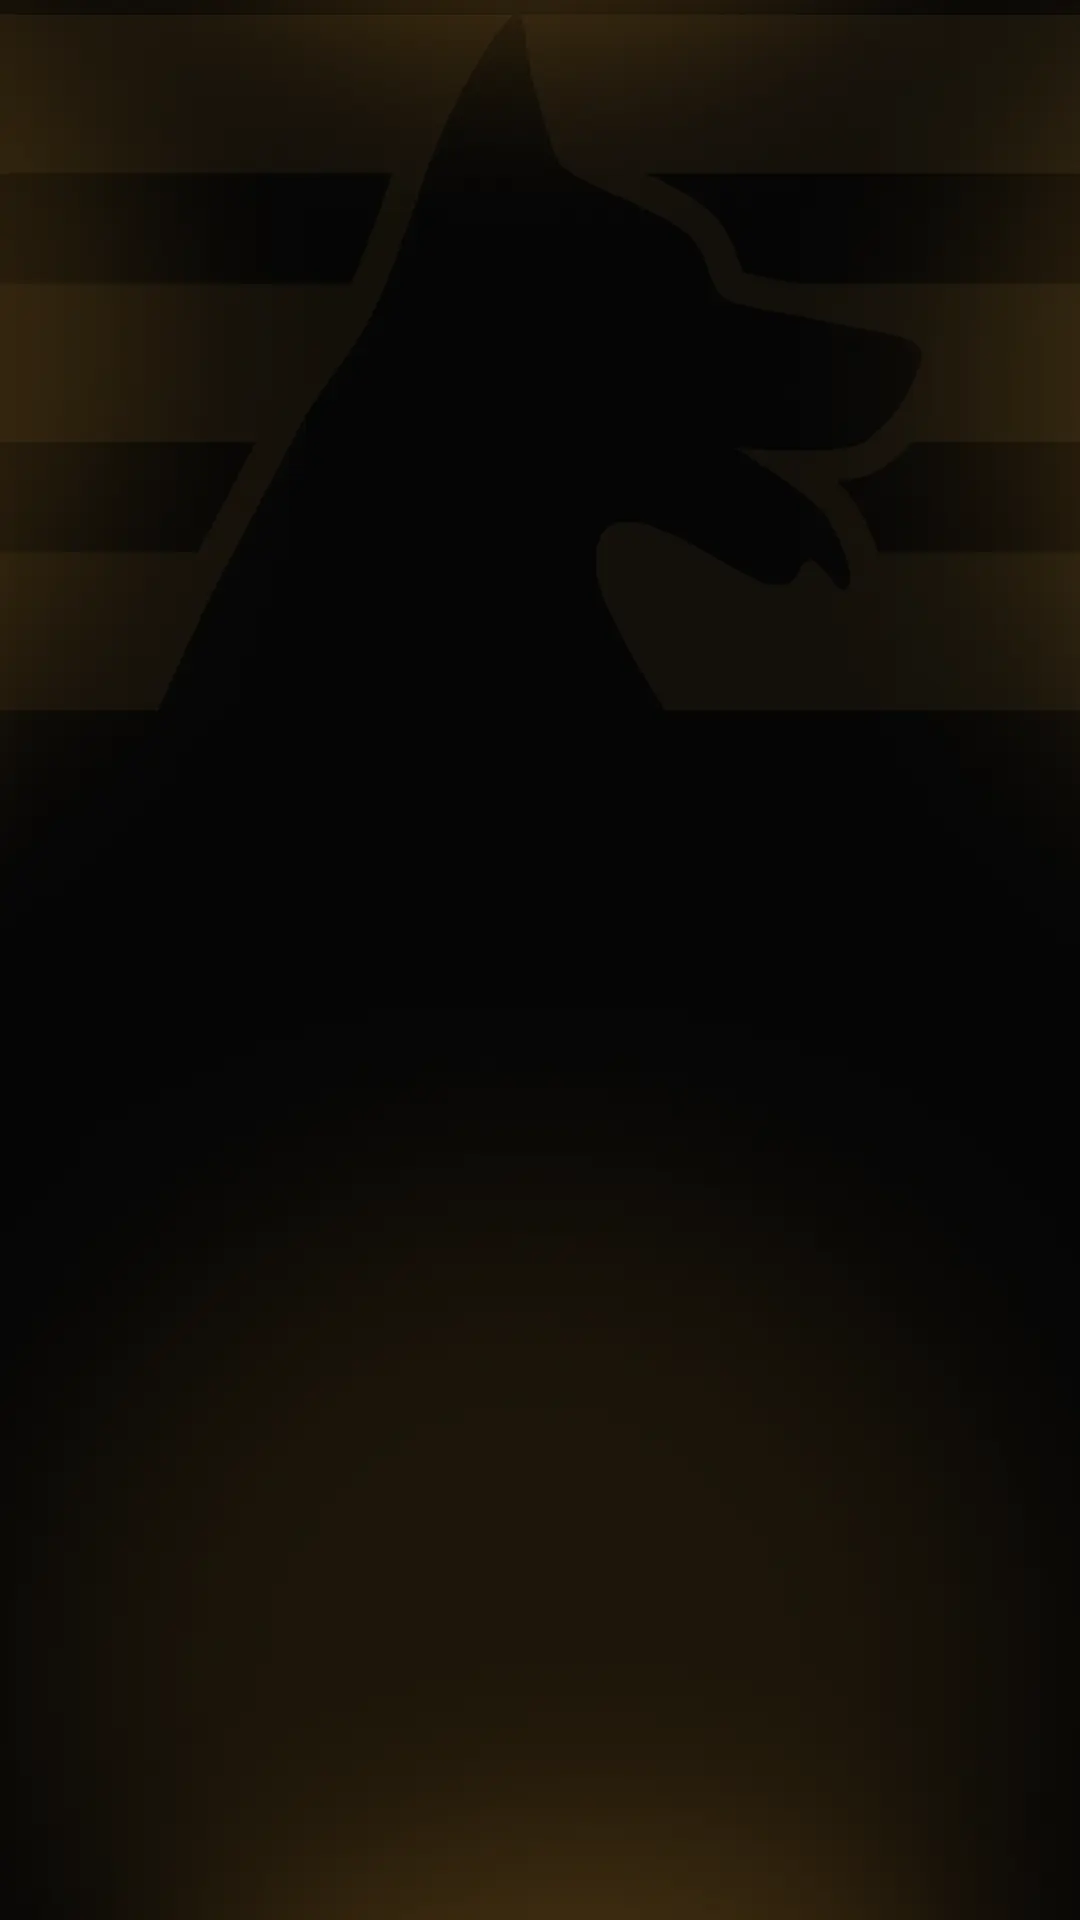
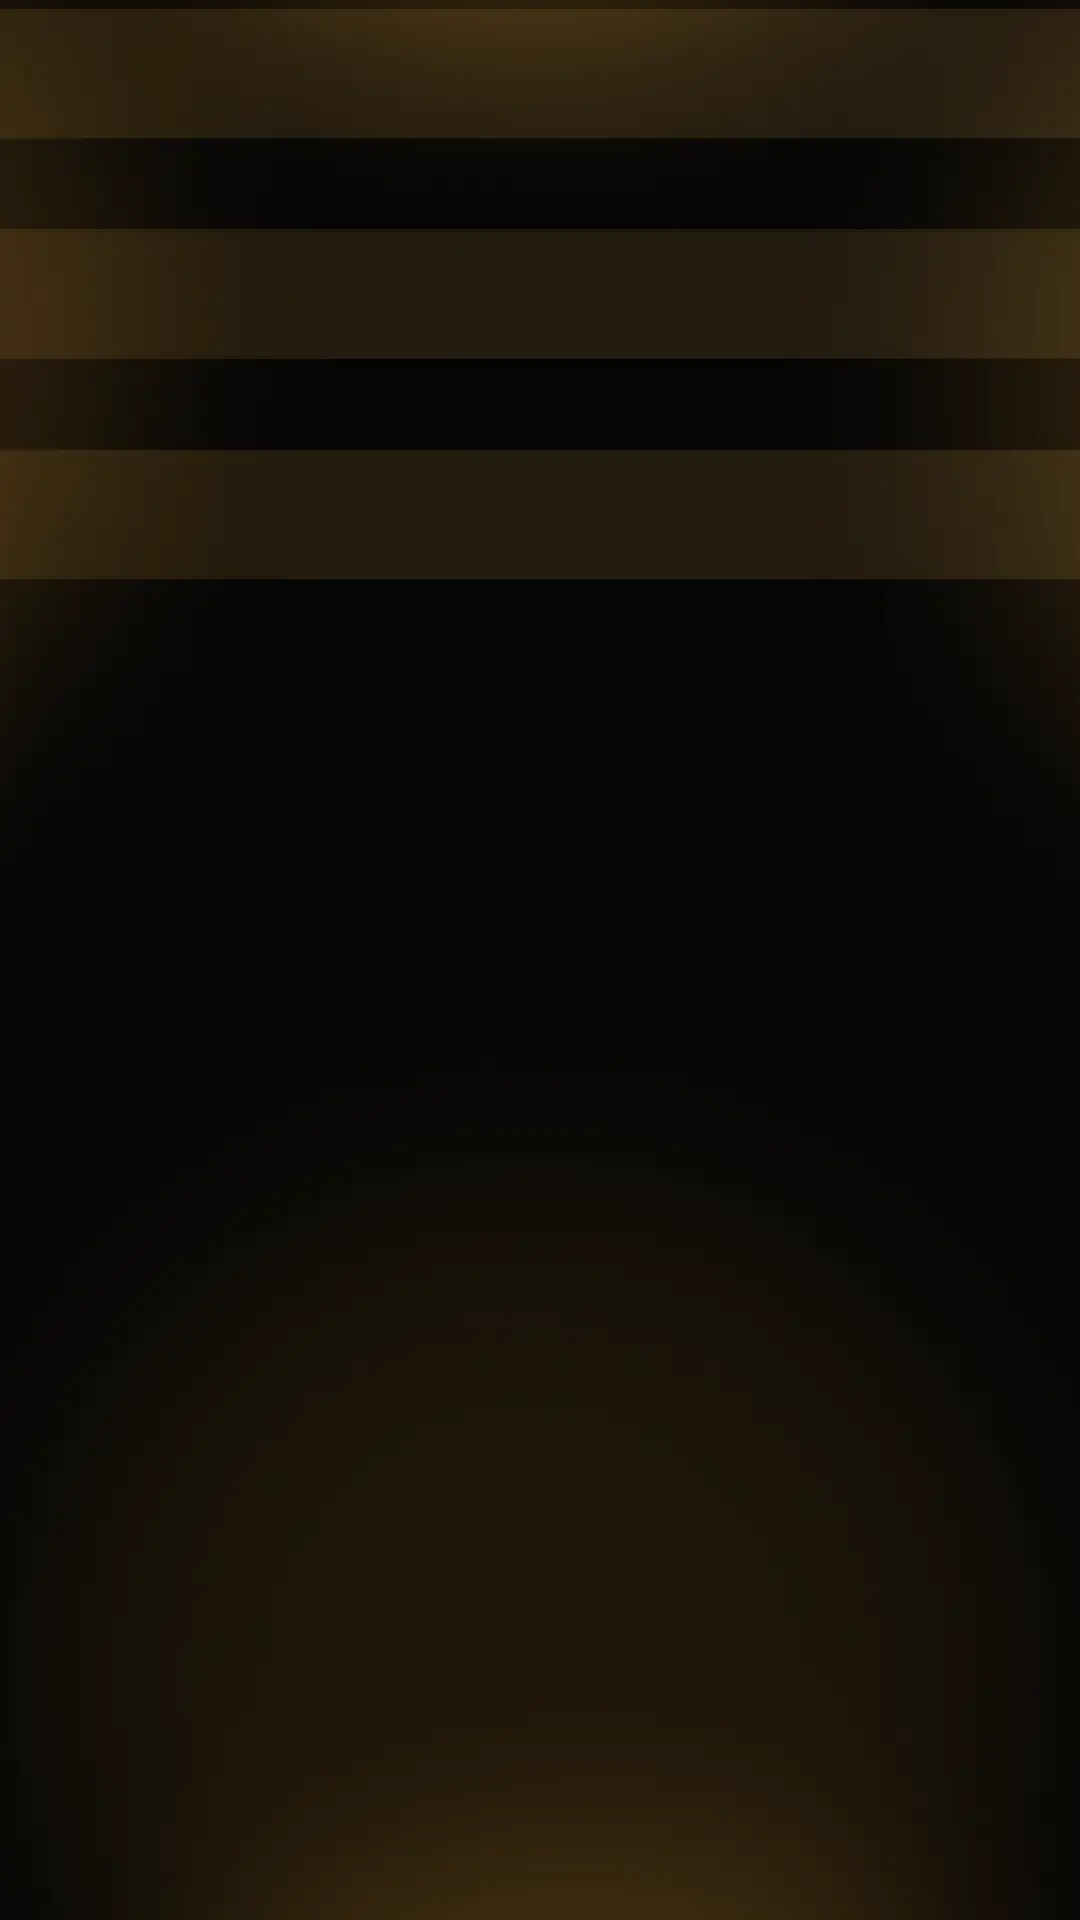
update

Changed region(s): [[0.0, 0.2188, 1.0, 0.3125], [0.0, 0.0, 1.0, 0.1875]]

diff --git a/index.html b/index.html
@@ -120,9 +120,9 @@
             </header>
 
             <div class="video">
-              <iframe class="desktop" id="panda-d361b71a-0b84-4ba9-b95f-76adb8670c52" src="https://player-vz-fa2c182e-ab9.tv.pandavideo.com.br/embed/?v=d361b71a-0b84-4ba9-b95f-76adb8670c52" style="border:none;" allow="accelerometer;gyroscope;autoplay;encrypted-media;picture-in-picture" allowfullscreen=true  fetchpriority="high"></iframe>
-              <iframe class="mobile" id="panda-f9ec0c8f-cdb6-4bb5-9f48-d45f4e8dec3b" src="https://player-vz-fa2c182e-ab9.tv.pandavideo.com.br/embed/?v=f9ec0c8f-cdb6-4bb5-9f48-d45f4e8dec3b" style="border:none;" allow="accelerometer;gyroscope;autoplay;encrypted-media;picture-in-picture" allowfullscreen=true fetchpriority="high"></iframe>
-              <a href="#"><button class="button mobile">QUERO FAZER PARTE</button></a>
+              <iframe class="desktop" id="panda-d361b71a-0b84-4ba9-b95f-76adb8670c52" style="border:none;" allow="accelerometer;gyroscope;autoplay;encrypted-media;picture-in-picture" allowfullscreen=true  fetchpriority="high"></iframe>
+              <iframe class="mobile" id="panda-f9ec0c8f-cdb6-4bb5-9f48-d45f4e8dec3b"  style="border:none;" allow="accelerometer;gyroscope;autoplay;encrypted-media;picture-in-picture" allowfullscreen=true fetchpriority="high"></iframe>
+              <a href="#plano"><button class="button mobile">QUERO FAZER PARTE</button></a>
             </div>
 
             <a href="#plano"><button class="button desktop">QUERO FAZER PARTE</button></a>

diff --git a/css/homeNewComunidade.css b/css/homeNewComunidade.css
@@ -48,7 +48,7 @@
   }
 
   #home .text {
-    margin-top: 40%;
+    margin-top: -8%;
     position: relative;
     z-index: 4;
     text-align: left;
@@ -58,6 +58,7 @@
   #home img.logo {
     width: 10rem;
     margin-top: -5rem;
+    margin-bottom: 2rem;
   }
 
   #home h2 {
@@ -140,32 +141,21 @@
   width: 100%;
 }
 
+#home .image img.testebg {
+  display: none;
+}
+
+#home .image img.testebg.mobile {
+  display: inherit;
+}
+
 #home .image img.mobile {
   z-index: 2;
   position: absolute;
-  top: 2%;
+  top: 0;
   left: 50%;
   transform: translate(-50%, 0);
   width: 110%;
-}
-
-#home .image img.bg {
-  width: 100%;
-  height: 100%;
-  position: absolute;
-  top: 0;
-  left: 0;
-  object-fit: cover;
-  aspect-ratio: 16/9;
-}
-
-#home .image img.testebgmobile {
-  width: 100%;
-  height: 100%;
-  position: absolute;
-  z-index: 0;
-  left: 0;
-  top: 0;
 }
 
 #home .image img.icon {
@@ -218,7 +208,11 @@
       display: none;
     }
 
-    #home .image img.mobile {
+    header#home .image img.testebg {
+      display: inherit;
+    }
+    
+    header#home .image img.testebg.mobile {
       display: none;
     }
 

diff --git a/script.js b/script.js
@@ -16,3 +16,20 @@ window.addEventListener("scroll", function () {
       navButton.classList.remove("desactive");
   }
 });
+
+  window.addEventListener('DOMContentLoaded', function () {
+    const isMobile = window.innerWidth <= 768;
+
+    const iframeDesktop = document.querySelector('iframe.desktop');
+    const iframeMobile = document.querySelector('iframe.mobile');
+
+    // Remove o src de ambos para garantir que nenhum carregue antes da verificação
+    iframeDesktop.removeAttribute('src');
+    iframeMobile.removeAttribute('src');
+
+    if (isMobile) {
+      iframeMobile.src = "https://player-vz-fa2c182e-ab9.tv.pandavideo.com.br/embed/?v=f9ec0c8f-cdb6-4bb5-9f48-d45f4e8dec3b";
+    } else {
+      iframeDesktop.src = "https://player-vz-fa2c182e-ab9.tv.pandavideo.com.br/embed/?v=d361b71a-0b84-4ba9-b95f-76adb8670c52";
+    }
+  });

diff --git a/css/sectionSobre.css b/css/sectionSobre.css
@@ -12,7 +12,7 @@
     height: 30%;
     top: 0;
     left: 0;
-    background: linear-gradient(to bottom, #050505 30%, transparent);
+    background: linear-gradient(to bottom, #050505 1%, transparent);
     z-index: 1;
 }
 
@@ -36,7 +36,7 @@
     object-fit: cover;
     z-index: 0;
 
-    mask-image: linear-gradient(to bottom, #000 70%, transparent);
+    mask-image: linear-gradient(to bottom, #000 80%, transparent);
 }
 
 #sobre .content {
